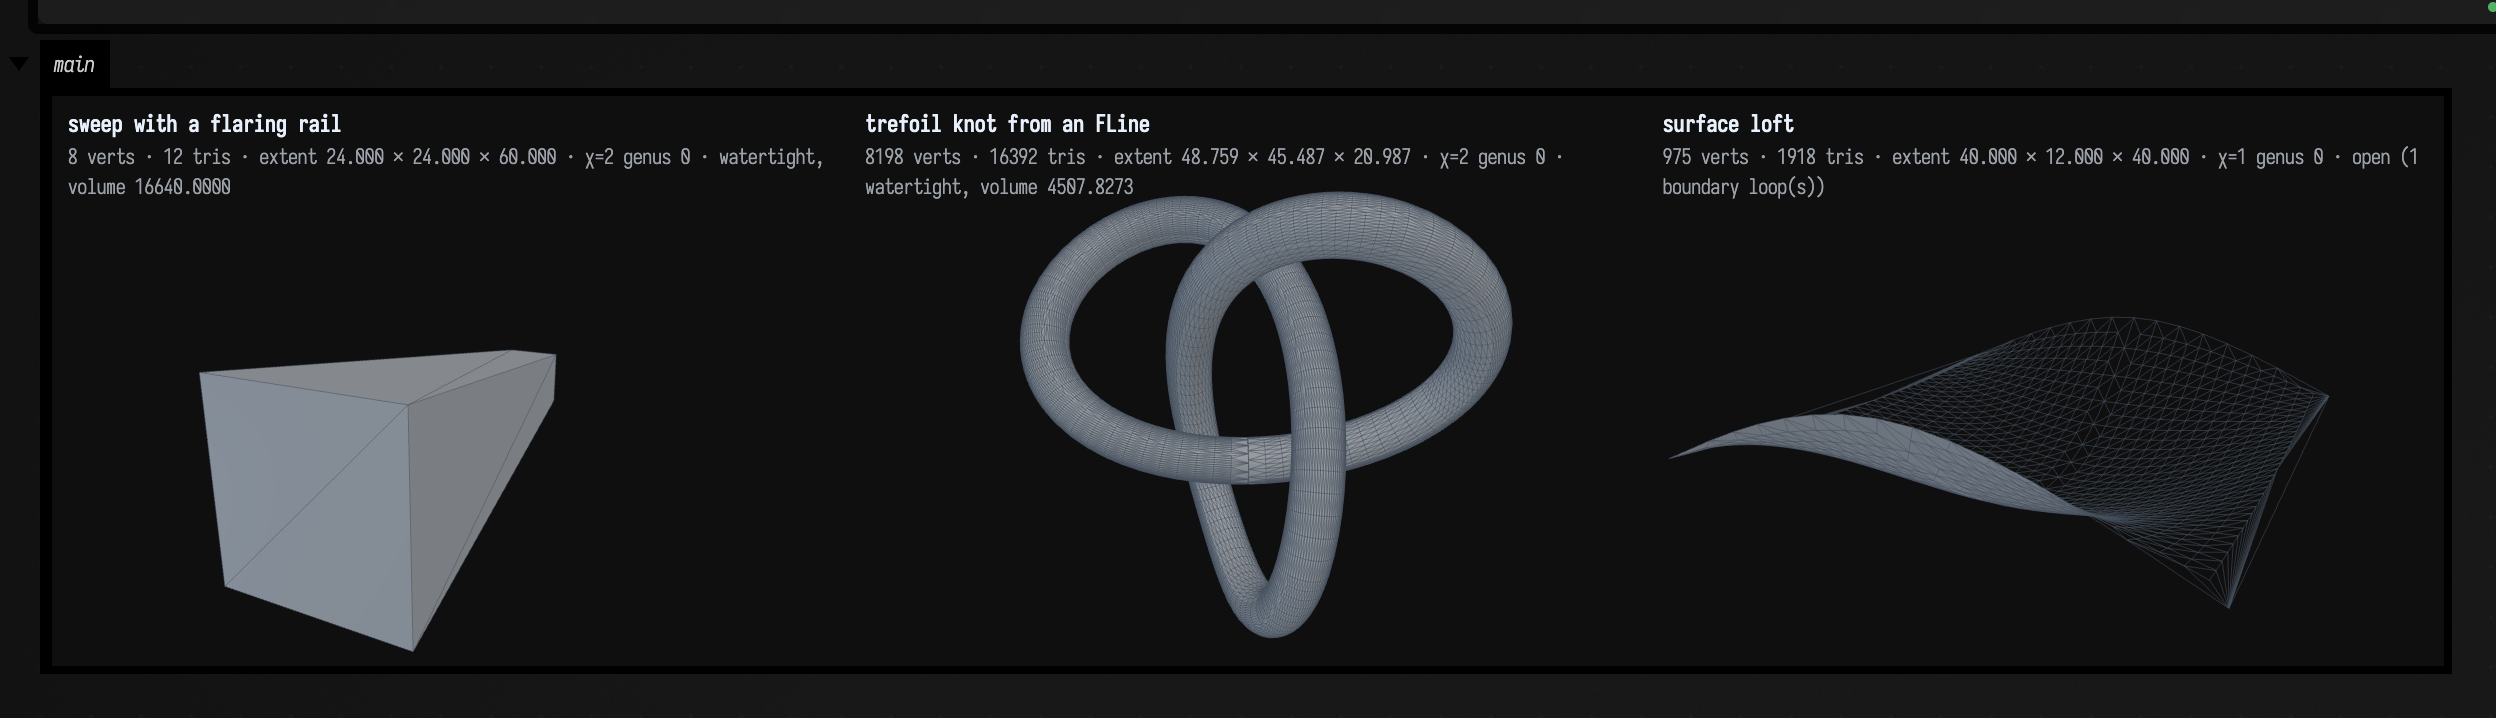
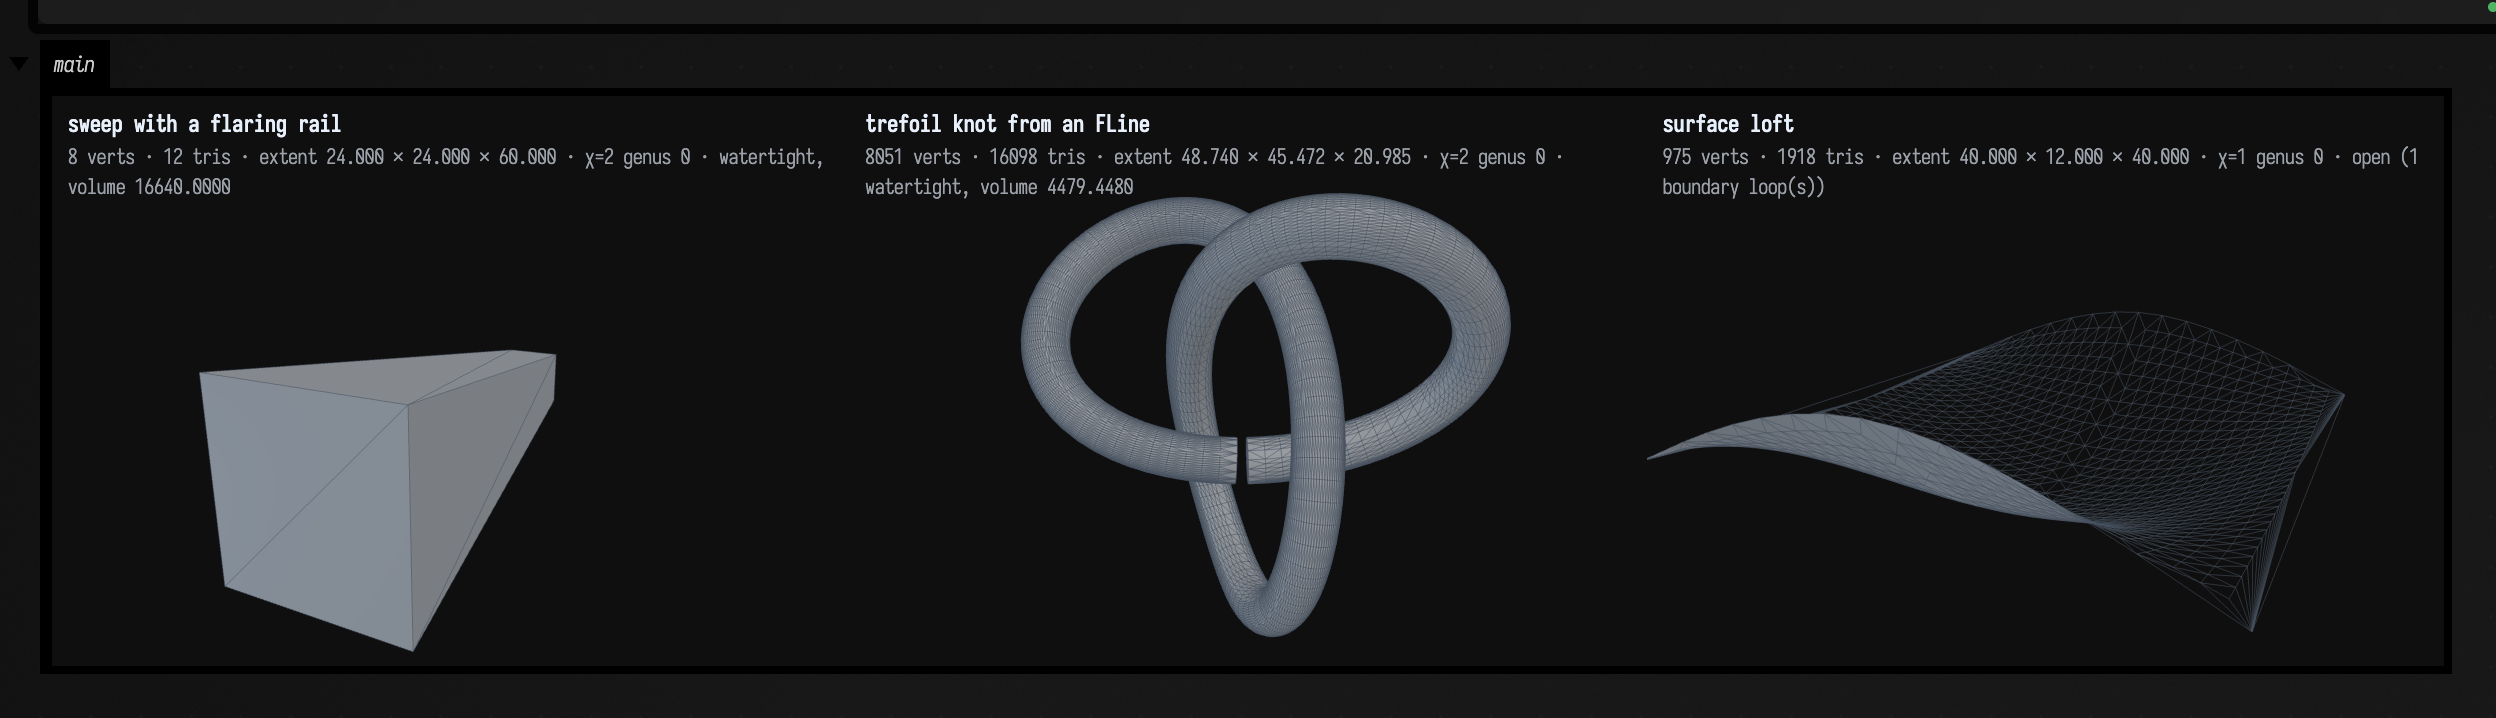
SolidCraft: move the pin from v0.15.0 to v0.30.0
v0.30 sews a sweep along a closed path into a seamless ring, which needs
the profile to come back unturned; going round a trefoil turns it about
127 degrees, so the docs and smoke-test knot now stop one step short and
stay a capped tube. surfaceBoundary now spans three or four curves (no
crown there); a smoke case covers three.

diff --git a/src/jvmMain/kotlin/afield/geometry/solid/solidcraft/SolidCraftBuilderSmokeTest.kt b/src/jvmMain/kotlin/afield/geometry/solid/solidcraft/SolidCraftBuilderSmokeTest.kt
@@ -98,10 +98,12 @@ object SolidCraftBuilderSmokeTest {
             check(v > 8.0 * 8.0 * 60.0 * 1.2) { "rail did not widen the sweep: $v" }
         }
 
-        // Sweep along a 3D wire made from a Field FLine: a closed trefoil knot. The profile is drawn
-        // on the plane square to the knot's start, so the tube is true: volume = πr² × length.
+        // Sweep along a 3D wire made from a Field FLine: a trefoil knot stopped one step short of its
+        // start. Since v0.30 a closed path is sewn shut, which needs the profile to come back unturned,
+        // and a knot turns it (about 127°); the open knot is a capped tube. The profile is drawn on the
+        // plane square to the knot's start, so the tube is true: volume = πr² × length.
         val knot = FLine().moveTo(0f, -8f, 0f).also { l ->
-            for (i in 1..240) {
+            for (i in 1..239) {
                 val t = i / 240.0 * 2 * PI
                 l.lineTo(8 * (sin(t) + 2 * sin(2 * t)), 8 * (cos(t) - 2 * cos(2 * t)), -8 * sin(3 * t))
             }
@@ -162,8 +164,7 @@ object SolidCraftBuilderSmokeTest {
             check(body(d).getDouble("area") > 2 * PI * 8.0 * 20.0)
         }
 
-        // A boundary patch bridging two curves (v0.15.0 builds two boundaries; three or four
-        // are SolidCraft issue #763), with a crown lifting its middle.
+        // A boundary patch bridging two curves, with a crown lifting its middle.
         case("surface boundary", solidCraft {
             val s = sketch("XY") {
                 spline(0.0, 0.0, 10.0, -3.0, 20.0, 0.0)
@@ -171,6 +172,17 @@ object SolidCraftBuilderSmokeTest {
             }
             surfaceBoundary(s, crown = 0.5)
         }) { d -> check(body(d).getDouble("area") > 400.0) { "boundary patch ${d.summary()}" } }
+
+        // Three curves in loop order (each ends where the next begins) give a flat-sided patch;
+        // a crown is refused there.
+        case("surface boundary of three curves", solidCraft {
+            val s = sketch("XY") {
+                spline(0.0, 0.0, 10.0, -3.0, 20.0, 0.0)
+                spline(20.0, 0.0, 13.0, 10.0, 10.0, 17.0)
+                spline(10.0, 17.0, 3.0, 10.0, 0.0, 0.0)
+            }
+            surfaceBoundary(s)
+        }) { d -> check(body(d).getDouble("area") > 150.0) { "three-curve patch ${d.summary()}" } }
 
         // A failing feature reports SolidCraft's reason instead of producing a model.
         val bad = runCatching { solidCraft { extrude(sketch { line(0.0, 0.0, 10.0, 0.0) }, "5") }.open() }.exceptionOrNull()

diff --git a/src/jvmMain/kotlin/afield/geometry/solid/solidcraft/SolidCraftBuilder.kt b/src/jvmMain/kotlin/afield/geometry/solid/solidcraft/SolidCraftBuilder.kt
@@ -193,8 +193,8 @@ class SolidCraftBuilder internal constructor(private val name: String, private v
 
     /**
      * One patch through the boundary curves of `sketch`, given in loop order (each ends where
-     * the next begins). SolidCraft v0.15.0 builds two boundaries, the bridge between them; three
-     * or four report "not supported yet" (its issue #763). Draw both curves in the same direction:
+     * the next begins). Two curves give the bridge between them; three or four give the patch
+     * their sides span, which takes no `crown`. Draw both curves in the same direction:
      * the bridge joins start to start, so opposed curves give a patch folded over itself.
      * `orders` is the continuity across each boundary; `crown` fills the middle (0 plain, up to
      * 3 fuller, down to -0.9 flatter).

diff --git a/tools/build_solidcraft_native.py b/tools/build_solidcraft_native.py
@@ -16,8 +16,8 @@ from pathlib import Path
 
 ROOT = Path(__file__).resolve().parent.parent
 UPSTREAM = "https://github.com/tangency-labs/solidcraft.git"
-# v0.15.0, pinned by commit because a tag can move.
-REVISION = "fa691707c224cae580c42201ed3a22d5e4b8c716"
+# v0.30.0, pinned by commit because a tag can move.
+REVISION = "afd81380ab06b0e77e03fdf68185d4b484d0e84e"
 SOURCE = ROOT / "build" / "solidcraft-src"
 ADAPTER = ROOT / "native" / "field-solidcraft"
 STAGED = SOURCE / "crates" / "field4-bridge"

diff --git a/public/docs/solidcraft.md b/public/docs/solidcraft.md
@@ -83,10 +83,12 @@ The box below builds three designs and shows their meshes side by side. The firs
 up a straight path while a guide rail runs from 4 to 12 mm off the path; the rail's default
 `SCALE` fit grows the whole square evenly with it, from 8 mm across to 24. The second draws a trefoil knot as a Field
 `FLine`, turns it into a 3D wire with `wire(knot)`, and sweeps a circle along it into a knotted tube;
-`planeSquareTo(knot)` puts the circle's sketch square to the knot where it starts. The third is a
+`planeSquareTo(knot)` puts the circle's sketch square to the knot where it starts. The loop stops one
+step short of closing: a sweep along a closed path is sewn into a seamless ring only when the profile
+comes back unturned, and going round a knot turns it, so SolidCraft refuses the closed knot. The third is a
 surface: a loft through three spline sections, which leaves an open, wavy sheet rather than a solid.
 
-```diffstatic_runner {data-lang=kotlin screenshot="assets/solidcraft/building-three-parts.png" alt="An output panel of three grey triangle meshes side by side, each with a fact line beneath it. Left, 'sweep with a flaring rail': a square-sectioned solid that widens evenly from 8 to 24 mm as it rises 60 mm, extent 24 × 24 × 60, volume 16640. Middle, 'trefoil knot from an FLine': a round tube tied in a three-lobed knot, passing over and under itself, its two capped ends meeting at a seam at the bottom; watertight, genus 0, volume 4507.8. Right, 'surface loft': a single wavy open sheet." wait="4" capture="box" open-outputs="true" padding="20" requires="solidcraft" name="building-three-parts" embed=true}
+```diffstatic_runner {data-lang=kotlin screenshot="assets/solidcraft/building-three-parts.png" alt="An output panel of three grey triangle meshes side by side, each with a fact line beneath it. Left, 'sweep with a flaring rail': a square-sectioned solid that widens evenly from 8 to 24 mm as it rises 60 mm, extent 24 × 24 × 60, volume 16640. Middle, 'trefoil knot from an FLine': a round tube tied in a three-lobed knot, passing over and under itself, its two capped ends almost touching at the bottom; watertight, genus 0, volume 4479.4. Right, 'surface loft': a single wavy open sheet." wait="4" capture="box" open-outputs="true" padding="20" requires="solidcraft" name="building-three-parts" embed=true}
 import afield.geometry.path.FLine
 import afield.geometry.solid.solidcraft.solidCraft
 import kotlin.math.PI
@@ -101,7 +103,7 @@ val flared = solidCraft("Flared") {
 }
 
 val knot = FLine().moveTo(0, -8, 0)
-for (i in 1..240) {
+for (i in 1..239) {
     val t = i / 240.0 * 2 * PI
     knot.lineTo(8 * (sin(t) + 2 * sin(2 * t)), 8 * (cos(t) - 2 * cos(2 * t)), -8 * sin(3 * t))
 }
@@ -201,10 +203,10 @@ The surface features make open sheets, measured by area rather than volume:
 `surfaceSweep` (with rails, as `sweep`), `surfaceLoft` (`start`/`end` continuity `G0` to `G3`),
 `surfaceRevolve`, and `surfaceBoundary`. `thicken` turns a sheet into a solid.
 
-!!! note "A boundary patch bridges two curves"
-    In the SolidCraft version Field pins (v0.15.0), `surfaceBoundary` builds a patch between two
-    curves; three or four report "not supported yet". Draw both curves in the same direction:
-    the patch joins start to start, so curves running opposite ways fold it over itself.
+!!! note "Boundary patches through two, three or four curves"
+    `surfaceBoundary` bridges two curves, or spans three or four given in loop order (each ends
+    where the next begins). `crown` works only on the two-curve bridge. Draw a bridge's two curves in the
+    same direction: it joins start to start, so curves running opposite ways fold it over itself.
 
 ```diffstatic_runner {data-lang=kotlin screenshot="assets/solidcraft/surfaces.png" alt="three meshes with fact lines. Left, a boundary patch between two splines: an open curved sheet, depth 0. Middle, the same sheet thickened by 2: depth 2. Right, the patch with its second curve drawn backwards: two triangles meeting at a point, the sheet folded through itself." wait="4" capture="box" open-outputs="true" padding="20" requires="solidcraft" name="solidcraft-surfaces" embed=true}
 import afield.geometry.solid.solidcraft.SolidCraftBuilder
